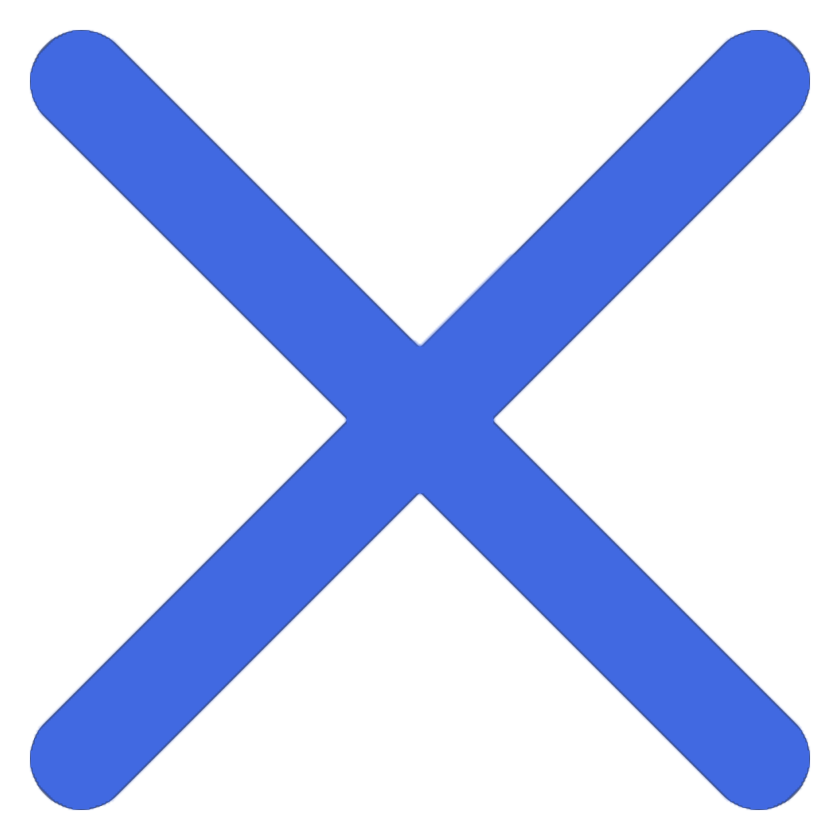
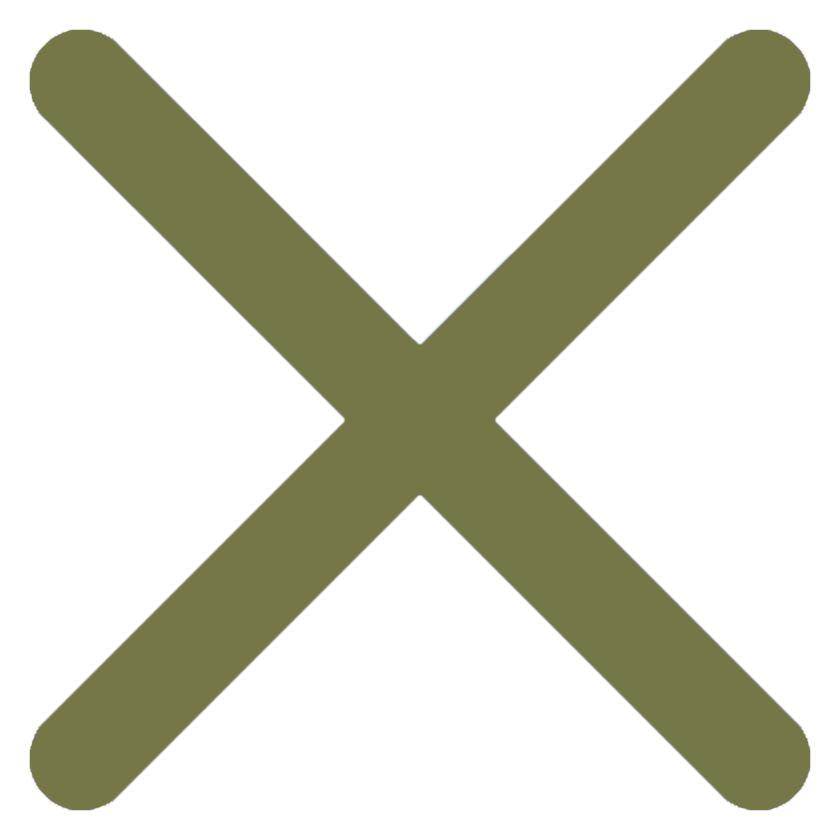
changed return and exit button color

Changed region(s): [[0.031, 0.031, 0.9905, 0.9905]]

diff --git a/ClientGui/ClientGui/MenuPages/HighScores.xaml b/ClientGui/ClientGui/MenuPages/HighScores.xaml
@@ -20,7 +20,7 @@
     <Border 
             CornerRadius="20">
         <Border.Background>
-            <ImageBrush ImageSource="\Resources\bg4.jpg"  Stretch="Fill"/>
+            <ImageBrush ImageSource="\Resources\darkThemeBg.jpg"  Stretch="Fill"/>
         </Border.Background>
 
         <Grid>
@@ -36,13 +36,22 @@
                        Text="Leaderboard"
                        VerticalAlignment="Center"
                        HorizontalAlignment="Center"
-                       Foreground="RoyalBlue"
+                       Foreground="DarkOliveGreen"
                        FontWeight="Bold"
                        FontSize="22"
                        Margin="95,0,0,0" Width="250"/>
-            <Image Source="/Resources/mario1.png" Margin="10,124,768,-71" Grid.Row="1"/>
+            <Image Source="\Resources\turtle2.png" Margin="-2,15,628,-146" Grid.Row="1" RenderTransformOrigin="0.5,0.5">
+                <Image.RenderTransform>
+                    <TransformGroup>
+                        <ScaleTransform/>
+                        <SkewTransform AngleY="-0.319" AngleX="0.229"/>
+                        <RotateTransform/>
+                        <TranslateTransform Y="-0.748" X="0.792"/>
+                    </TransformGroup>
+                </Image.RenderTransform>
+            </Image>
 
-            <Image Source="/Resources/luigi.png" Margin="748,118,0,-69" Grid.Row="1"/>
+            <Image Source="/Resources/turtleThumbsUp.png" Margin="709,153,-91,-6" Grid.Row="1"/>
             <Button Width="75" Height="70" HorizontalAlignment="Left" Background="Transparent" BorderBrush="Transparent"
                         Click="Button_Click">
                 <Image Source="/Resources/back.png"/>
@@ -81,12 +90,14 @@
 
             </Button>
 
+
             <StackPanel Grid.Row="1">
                 <Border Width="350" 
                         Height="150" 
-                        Background="MediumSlateBlue"
+                        Background="DarkOliveGreen"
                         CornerRadius="20"
                         Margin="0,35,0,10"
+                        
                         >
                     <TextBlock x:Name="firstDisplay"
                        Foreground="White"
@@ -97,7 +108,7 @@
                 </Border>
                 <Border Width="450" 
                     Height="150" 
-                    Background="MediumSlateBlue"
+                    Background="DarkOliveGreen"
                     CornerRadius="20"
                         Margin="0,5,0,10"
                         >
@@ -111,7 +122,7 @@
                 </Border>
                 <Border Width="550" 
                     Height="150" 
-                    Background="MediumSlateBlue"
+                    Background="DarkOliveGreen"
                     CornerRadius="20"
                         Margin="0,5,0,10"
                         >
